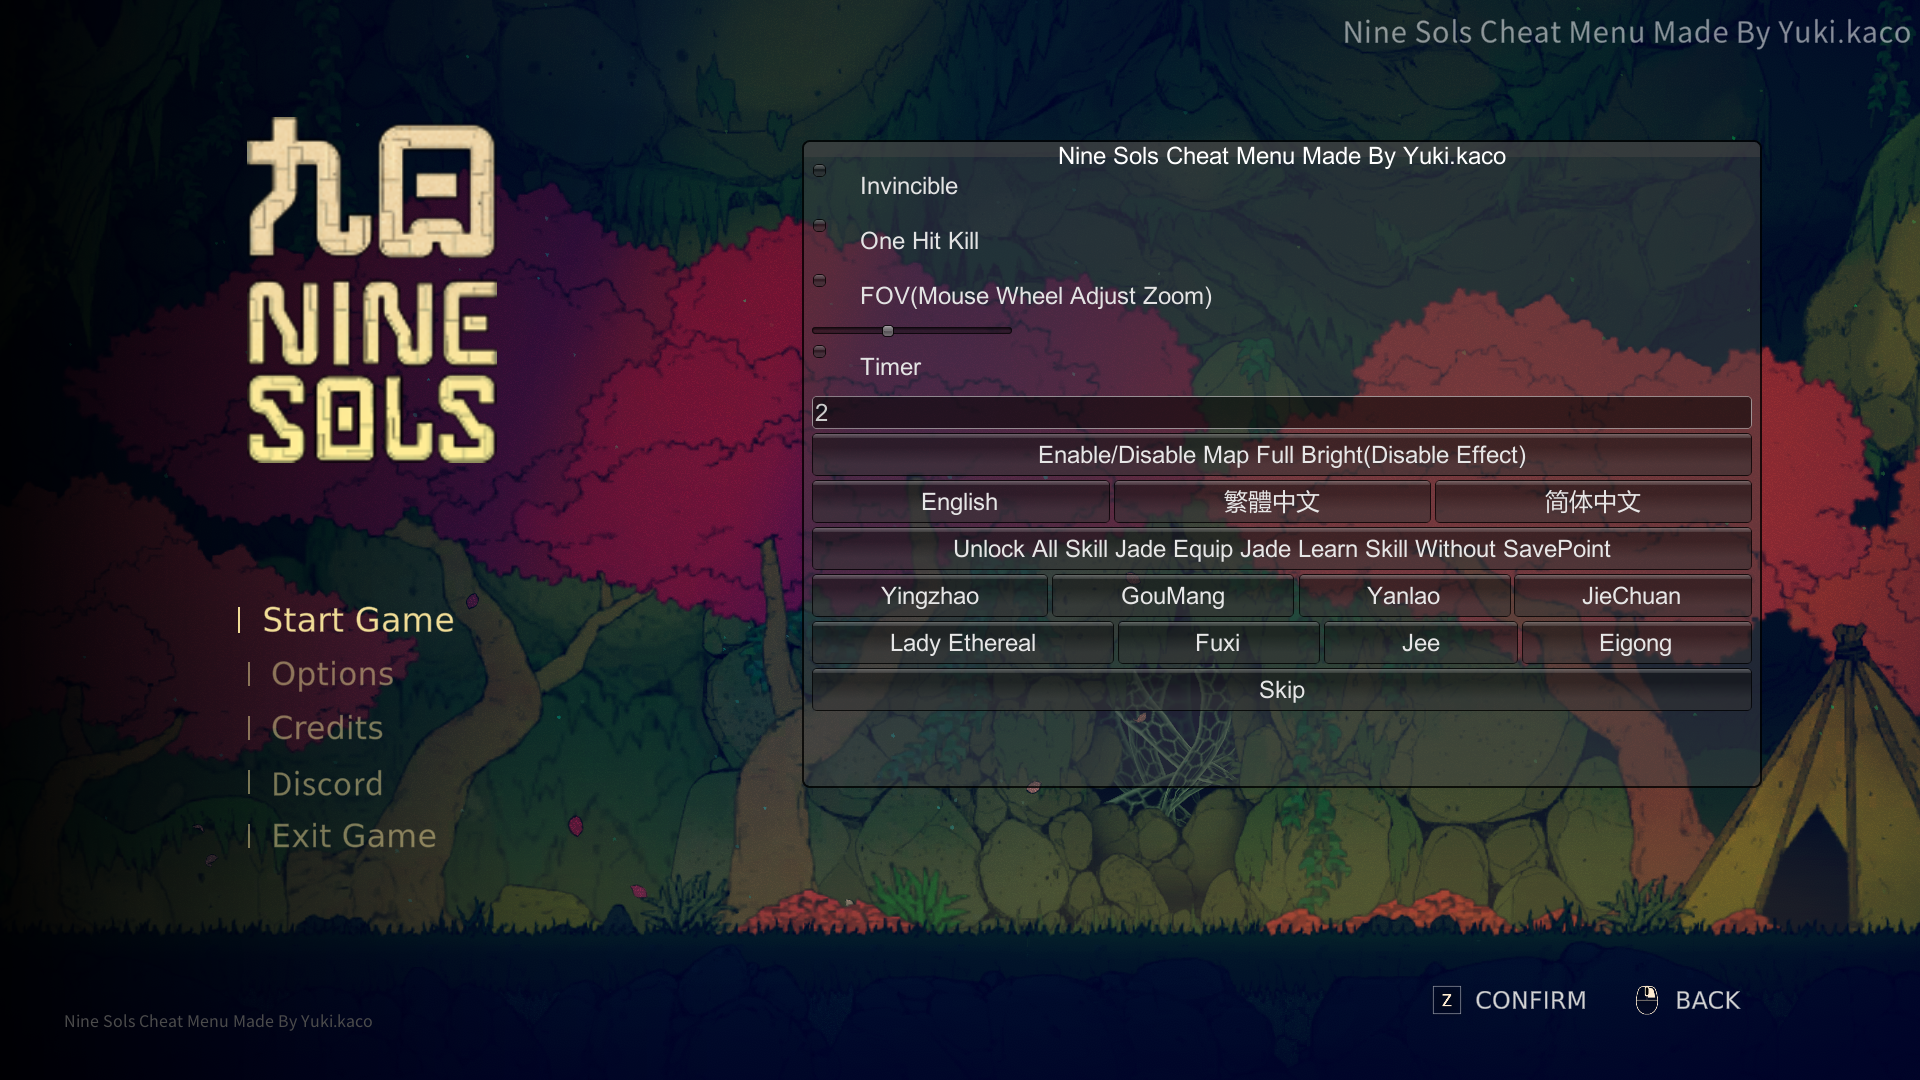
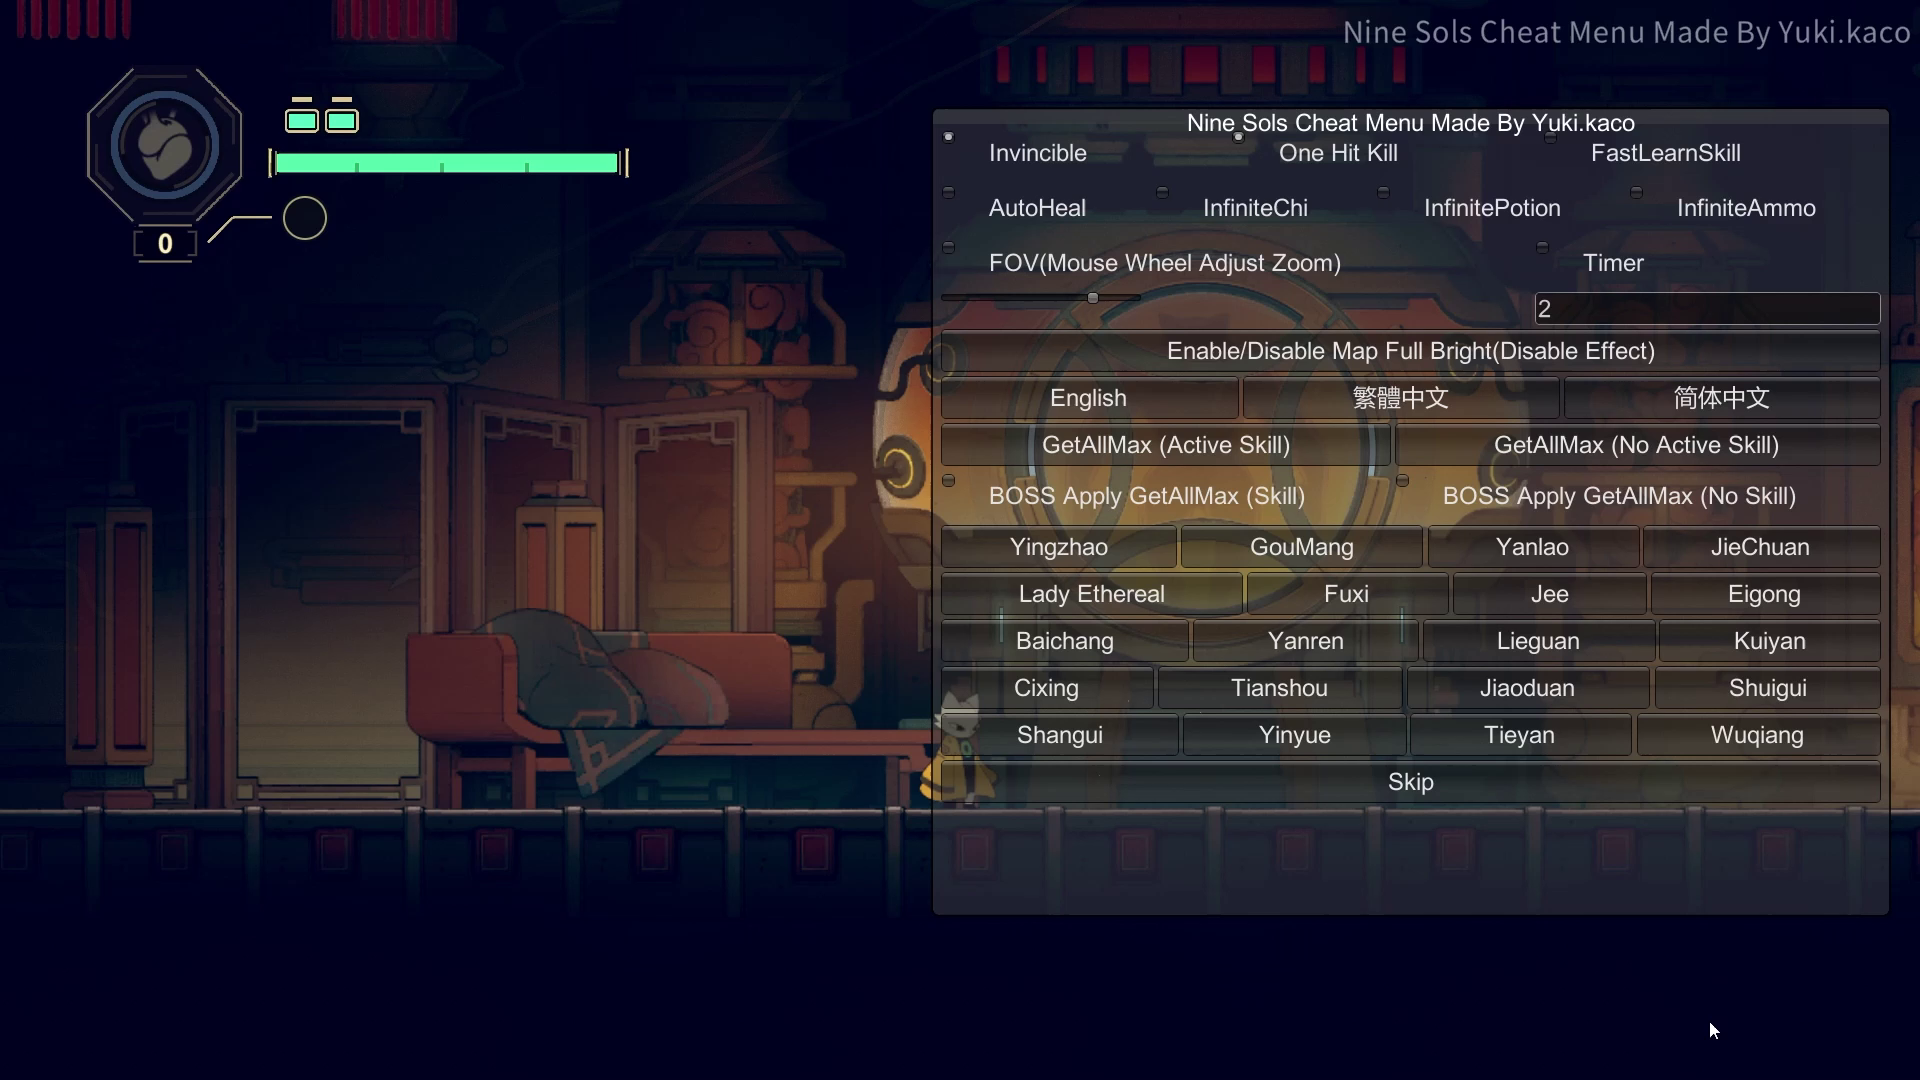
Update Readme

diff --git a/README.md b/README.md
@@ -17,20 +17,26 @@
 # Feature
 - Invincible
 - One Hit Kill
+- FastLearnSkill
 - Developer Console F1
 - Mouse Move Character F2
 - Open Cheat Menu F3
 - Timer F4
 - FOV (Mouse Wheel Adjust Zoom) F5
+- AutoHeal
+- InfiniteChi
+- InfinitePotion
+- InfiniteAmmo
+- GetAllMax (Active Skill)
 - Map Full Bright(Disable Effect)
 - Skip LeftCtrl
-- Goto Boss
-- Unlock All Skill Jade Unlimited Jade Slot No at savePoint can learn skill and Equip Jade
+- Goto Boss and Mini Boss
 
-# Use Goto Boss Will Override last Save Slot
+# Use Goto Boss, Mini Boss Will Override last Save Slot
 
 # Picture
 ![](/img/Menu.png)
+![](/img/AllMax.png)
 ![](/img/SkillPoint.png)
 ![](/img/Jades.png)
 ![](/img/Fov.png)

diff --git a/README-zh-cn.md b/README-zh-cn.md
@@ -18,19 +18,26 @@
 # 功能
 - 无敌
 - 一击必杀
+- 快速学技能
 - 控制台 F1
 - 滑鼠移动 F2
 - 开启作弊选单 F3
 - 加速 F4
 - 调整视野距离 (滚轮调整大小) F5
+- 自动补血
+- 无限气
+- 无限药水
+- 无限弹夹
+- 解锁全部(已学技能)
 - 地图亮(关闭特效)
 - 跳过 LeftCtrl
-- 直接打Boss
-- 解锁全部 技能 玉石 非存档点装玉石学技能
+- 直接打Boss 和 小Boss
 
-# 直接打Boss 会覆盖最后一个存档槽
+# 直接打Boss,小Boss 会覆盖最后一个存档槽
 
 # 照片
+![](/img/Menu.png)
+![](/img/AllMax.png)
 ![](/img/SkillPoint.png)
 ![](/img/Jades.png)
 ![](/img/Fov.png)
